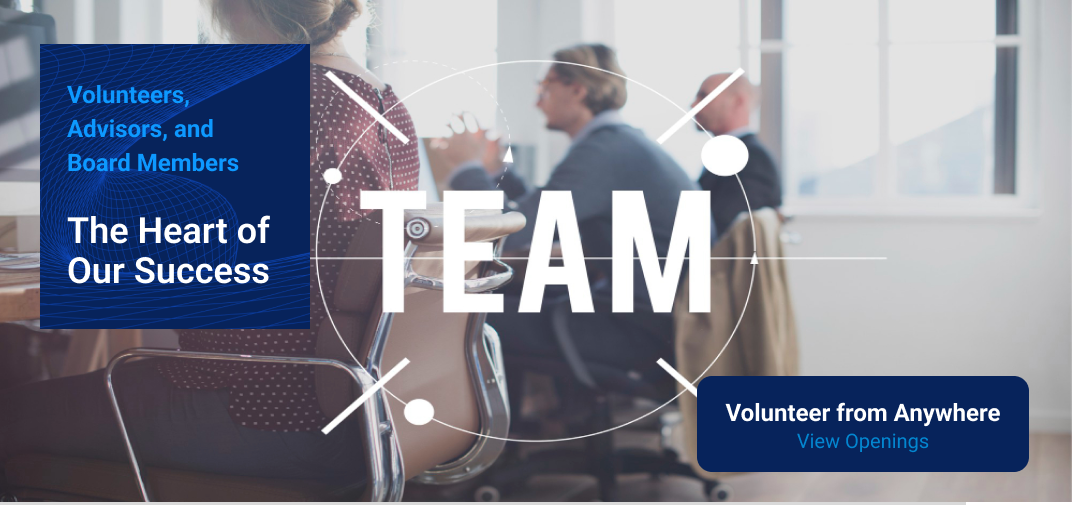
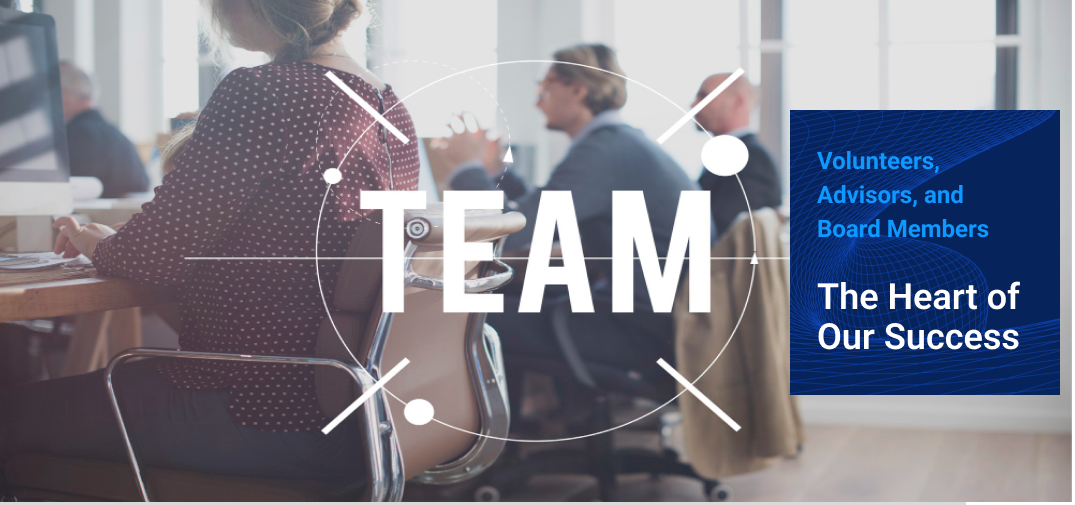
reaplace hero img, about us

diff --git a/src/Components/Team-Layout/Hero/Hero.jsx b/src/Components/Team-Layout/Hero/Hero.jsx
@@ -1,6 +1,6 @@
 import { useState, useRef, useEffect } from "react";
 
-import image from "/src/Assets/Images/Titles.png";
+// import image from "/src/Assets/Images/Titles.png";
 import image2 from "/src/Assets/Images/teamwork.png";
 import "./Hero.css";
 

diff --git a/src/Pages/About-us/index.jsx b/src/Pages/About-us/index.jsx
@@ -16,7 +16,6 @@ import TotopBtn from "src/Components/About-Page-Layout/TotopBtn";
 const index = () => {
   return (
     <>
-
       <Hero />
       <Statement />
       <Team />

diff --git a/src/Components/Team-Layout/Hero/Hero.css b/src/Components/Team-Layout/Hero/Hero.css
@@ -17,6 +17,8 @@
     margin-top: 10px;
    
 }
+
+
 .Teamss-image-tab{
     position: relative;
     height:520px; 
